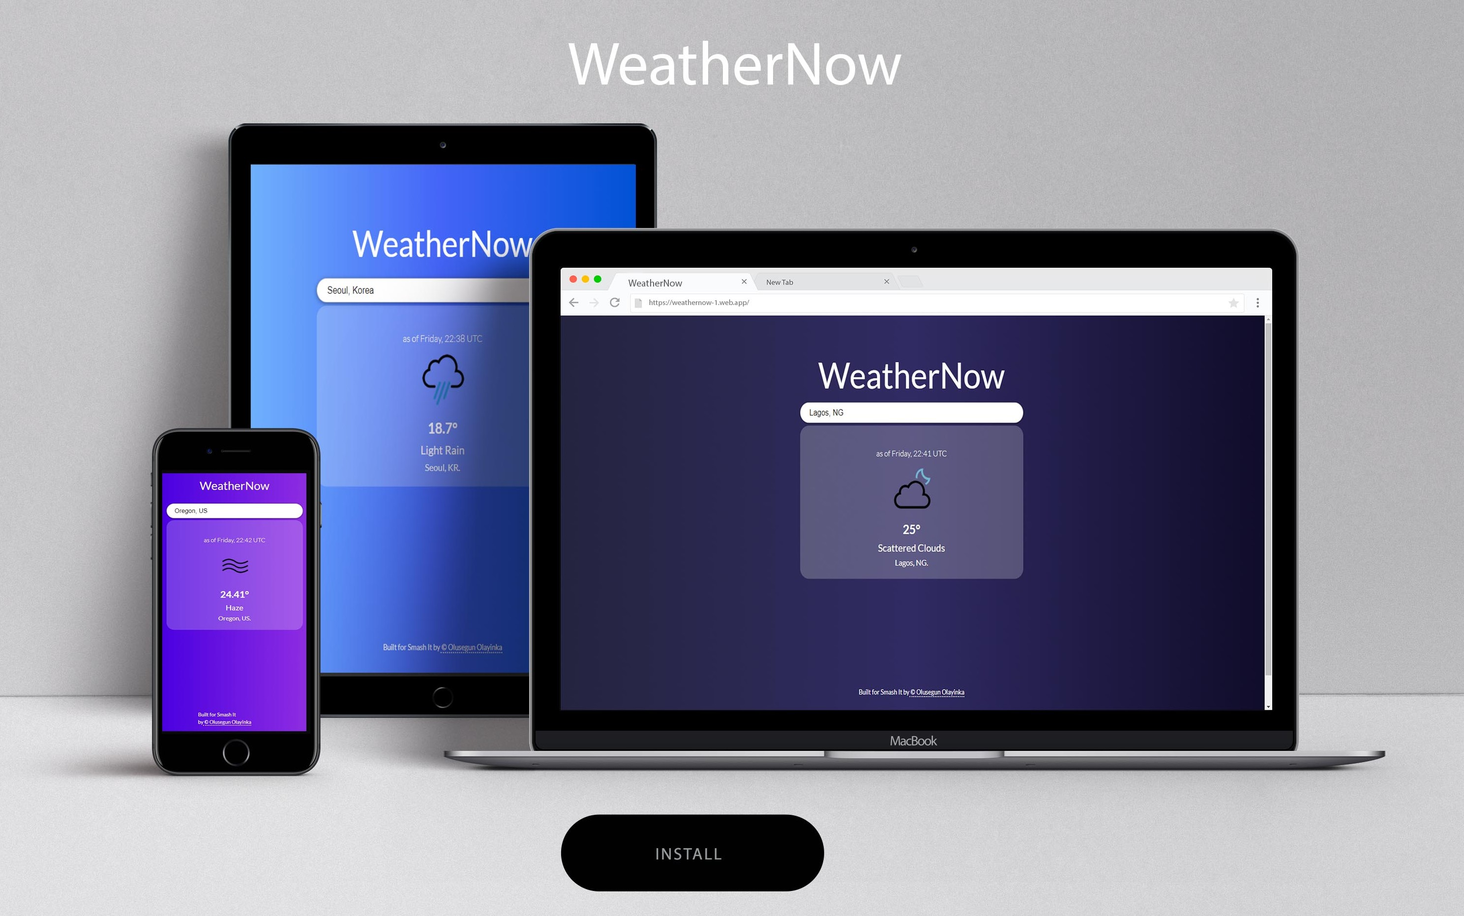
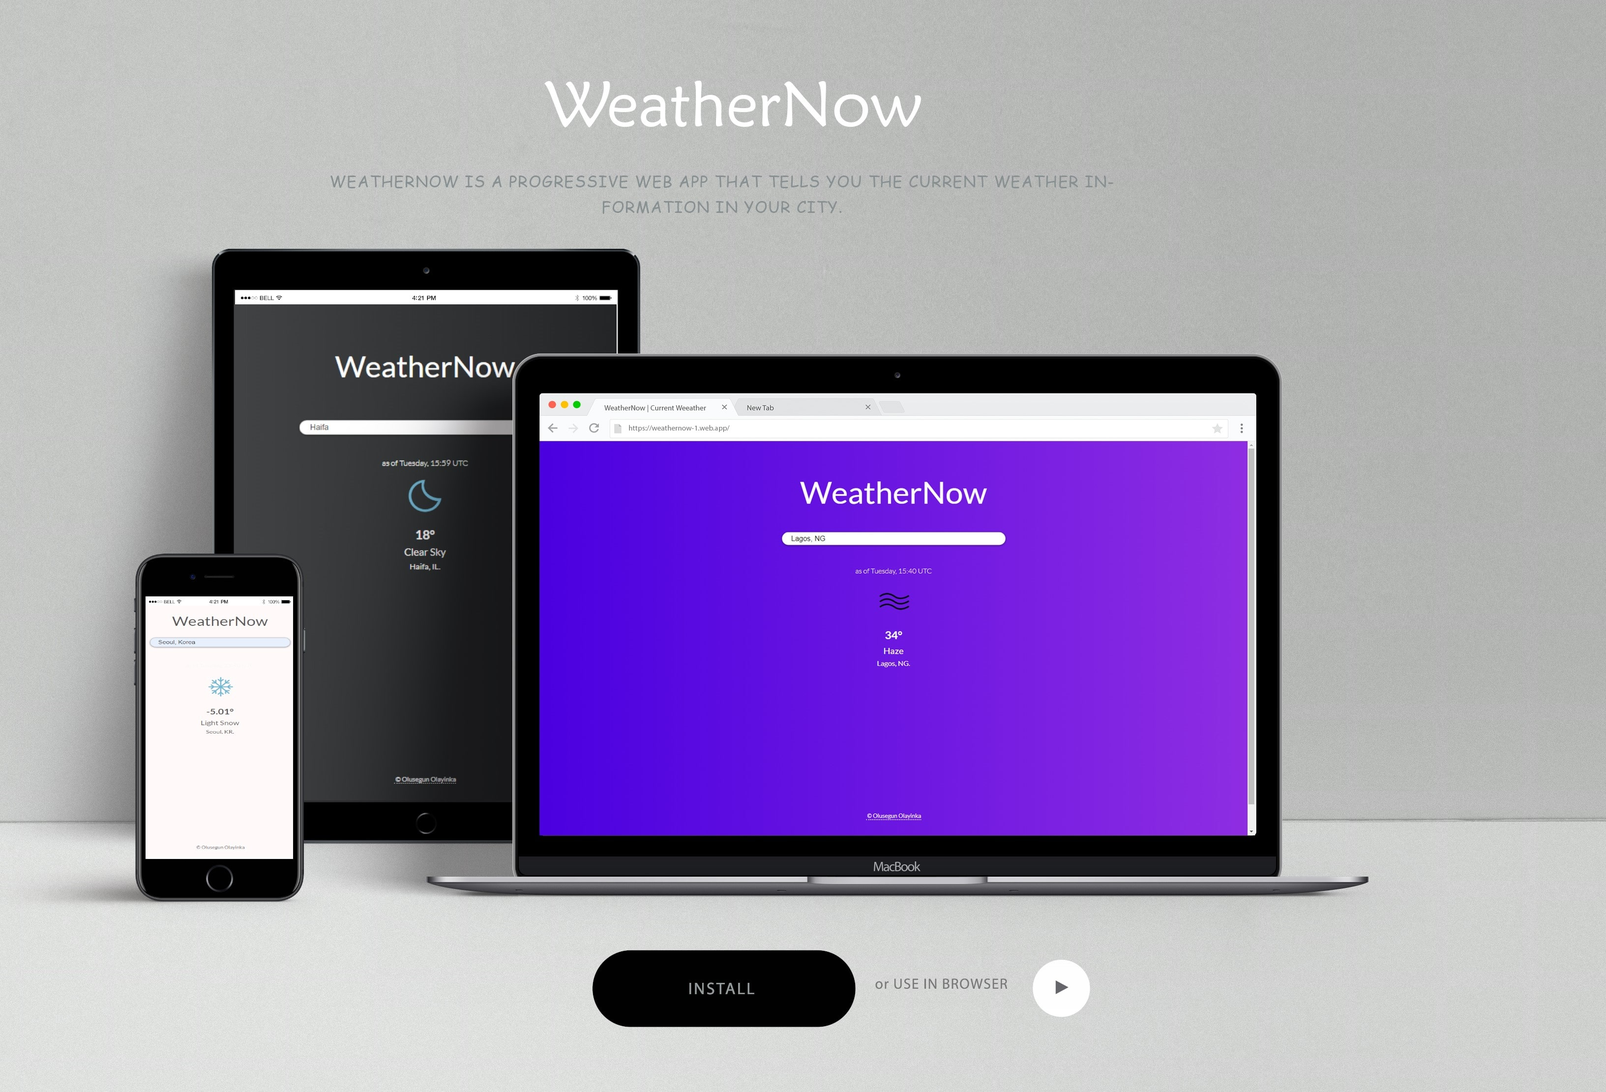
Changed weather information style

diff --git a/dist/js/script.min.js b/dist/js/script.min.js
@@ -1,1 +1,1 @@
-"use strict";function ownKeys(e,r){var t=Object.keys(e);if(Object.getOwnPropertySymbols){var n=Object.getOwnPropertySymbols(e);r&&(n=n.filter(function(r){return Object.getOwnPropertyDescriptor(e,r).enumerable})),t.push.apply(t,n)}return t}function _objectSpread(e){for(var r=1;r<arguments.length;r++){var t=null!=arguments[r]?arguments[r]:{};r%2?ownKeys(Object(t),!0).forEach(function(r){_defineProperty(e,r,t[r])}):Object.getOwnPropertyDescriptors?Object.defineProperties(e,Object.getOwnPropertyDescriptors(t)):ownKeys(Object(t)).forEach(function(r){Object.defineProperty(e,r,Object.getOwnPropertyDescriptor(t,r))})}return e}function _defineProperty(e,r,t){return r in e?Object.defineProperty(e,r,{value:t,enumerable:!0,configurable:!0,writable:!0}):e[r]=t,e}"serviceWorker"in navigator&&window.addEventListener("load",()=>{navigator.serviceWorker.register("/sw_cached_site.min.js").then(e=>{}).catch(e=>{})}),window.addEventListener("load",()=>{try{const e=localStorage.getItem("searchQuery"),r=JSON.parse(e);r&&(document.querySelector("#query").setAttribute("value",r),getWeatherInfo(r))}catch(e){}});const dateConverter=e=>{const r=new Date(1e3*e),t=r.getDay(),n=r.getHours(),o="0"+r.getMinutes();return`${["Sunday","Monday","Tuesday","Wednesday","Thursday","Friday","Saturday"][t]}, ${n}:${o.substr(-2)}`},mockJsonResponse={weather:[{main:"",description:"",icon:""}],main:{temp:""},sys:{country:""},name:"",dt:""},getWeatherInfo=e=>{fetch(`https://api.openweathermap.org/data/2.5/weather?q=${e}&appid={YPOUR_API_KEY}&units=metric`).then(e=>200===e.status?e.json():404===e.status?_objectSpread(_objectSpread({},mockJsonResponse),{},{error:"City not found. Please Check your spelling or try searching for something else.",cod:404}):_objectSpread(_objectSpread({},mockJsonResponse),{},{error:"Oops! An error occured. Please try again.",cod:-1})).then(e=>displayWeatherInfo(e)).catch(e=>{displayWeatherError()})},handleWeatherSearch=e=>{e.preventDefault();const r=e.target.elements.query.value.trim();if(r){document.querySelector(".loading-box").classList.remove("display-none"),getWeatherInfo(r);const e=JSON.stringify(r);localStorage.setItem("searchQuery",e)}else document.querySelector(".weather__error").innerHTML="Please provide a valid city name.",document.querySelector(".weather__error--tip").innerHTML="Tip: Search by - City name, Country e.g. Shuzenji, JP",document.querySelector(".weather__icon").innerHTML="",document.querySelector(".weather__description").innerHTML="",document.querySelector(".weather__temp").innerHTML="",document.querySelector(".weather__time").innerHTML="",document.querySelector(".weather__location").innerHTML="",document.querySelector(".weather").classList.remove("display-none")};document.querySelector("form").addEventListener("submit",handleWeatherSearch);const displayWeatherInfo=e=>{const r=e.weather[0].main.toLowerCase(),{description:t}=e.weather[0],{temp:n}=e.main,{icon:o}=e.weather[0],{name:a}=e,{country:c}=e.sys;let i,s=e.dt;switch(e.dt&&(s=dateConverter(e.dt)),200!==e.cod?(i=e.error,document.querySelector(".weather__error").innerHTML=i,document.querySelector(".weather__error--tip").innerHTML="Tip: Search by - City name, Country e.g. Shuzenji, JP"):(document.querySelector(".weather__error").innerHTML="",document.querySelector(".weather__error--tip").innerHTML=""),document.querySelector(".weather__icon").innerHTML=o&&`<img src=/resources/img/icons/${o}.png alt=weather-icon>`,document.querySelector(".weather__description").innerHTML=t,document.querySelector(".weather__temp").innerHTML=n&&`${n}&deg;`,document.querySelector(".weather__time").innerHTML=s&&`as of ${s} UTC`,document.querySelector(".weather__location").innerHTML=a&&`${a}, ${c}.`,document.querySelector(".loading-box").classList.add("display-none"),document.querySelector(".weather").classList.remove("display-none"),r){case"thunderstorm":document.body.className="thunderstorm";break;case"drizzle":document.body.className="drizzle";break;case"rain":document.body.className="rain";break;case"snow":document.body.className="snow";break;case"clear":o.includes("d")?document.body.className="clear__day":document.body.className="clear__night";break;case"clouds":document.body.className="clouds";break;default:document.body.className="others"}},displayWeatherError=()=>{document.querySelector(".weather__icon").innerHTML="",document.querySelector(".weather__temp").innerHTML="",document.querySelector(".weather__time").innerHTML="",document.querySelector(".weather__error").innerHTML="Unable to get weather information",document.querySelector(".weather__error--tip").innerHTML="Tip: You might be offline. Check your internet connection and try again",document.querySelector(".weather__description").innerHTML="",document.querySelector(".weather__location").innerHTML="",document.querySelector(".loading-box").classList.add("display-none"),document.querySelector(".weather").classList.remove("display-none"),document.body.className="offline"};
+window.addEventListener("load",()=>{"serviceWorker"in navigator&&navigator.serviceWorker.register("/sw_cached_site.min.js").then(e=>{console.log("Service worker registration sucessful")}).catch(e=>{console.log("Service worker registration failed")});try{const e=localStorage.getItem("searchQuery"),r=JSON.parse(e);r&&(document.querySelector("#query").setAttribute("value",r),getWeatherInfo(r))}catch(e){}});const dateConverter=e=>{const r=new Date(1e3*e),t=r.getDay(),o=r.getHours(),n="0"+r.getMinutes();return`${["Sunday","Monday","Tuesday","Wednesday","Thursday","Friday","Saturday"][t]}, ${o}:${n.substr(-2)}`},mockJsonResponse={weather:[{main:"",description:"",icon:""}],main:{temp:""},sys:{country:""},name:"",dt:""},getWeatherInfo=(e,r)=>{let t;if("geolocation"===r){const{lat:r,lon:o}=e;t=`lat=${r}&lon=${o}`}else t=`q=${e}`;fetch(`https://api.openweathermap.org/data/2.5/weather?${t}&appid={YOUR_API_KEY}&units=metric`).then(e=>200===e.status?e.json():404===e.status?{...mockJsonResponse,error:"City not found. Please Check your spelling or try searching for something else.",cod:404}:{...mockJsonResponse,error:"Oops! An error occured. Please try again.",cod:-1}).then(e=>displayWeatherInfo(e)).catch(e=>{displayWeatherError()})},handleWeatherSearch=e=>{e.preventDefault();const r=e.target.elements.query.value.trim();if(r){document.querySelector(".loading-box").classList.remove("display-none"),getWeatherInfo(r);const e=JSON.stringify(r);localStorage.setItem("searchQuery",e)}else document.querySelector(".weather__error").innerHTML="Please provide a valid city name.",document.querySelector(".weather__error--tip").innerHTML="Tip: Search by - City name, Country e.g. Shuzenji, JP",document.querySelector(".weather__icon").innerHTML="",document.querySelector(".weather__description").innerHTML="",document.querySelector(".weather__temp").innerHTML="",document.querySelector(".weather__time").innerHTML="",document.querySelector(".weather__location").innerHTML="",document.querySelector(".weather").classList.remove("display-none")};document.querySelector("form").addEventListener("submit",handleWeatherSearch);const displayWeatherInfo=e=>{const r=e.weather[0].main.toLowerCase(),{description:t}=e.weather[0],{temp:o}=e.main,{icon:n}=e.weather[0],{name:a}=e,{country:c}=e.sys;let s,i=e.dt;switch(e.dt&&(i=dateConverter(e.dt)),200!==e.cod?(s=e.error,document.querySelector(".weather__error").innerHTML=s,document.querySelector(".weather__error--tip").innerHTML="Tip: Search by - City name, Country e.g. Shuzenji, JP"):(document.querySelector(".weather__error").innerHTML="",document.querySelector(".weather__error--tip").innerHTML=""),document.querySelector(".weather__icon").innerHTML=n&&`<img src=/resources/img/icons/${n}.png alt=weather-icon>`,document.querySelector(".weather__description").innerHTML=t,document.querySelector(".weather__temp").innerHTML=o&&`${o}&deg;`,document.querySelector(".weather__time").innerHTML=i&&`as of ${i} UTC`,document.querySelector(".weather__location").innerHTML=a&&`${a}, ${c}.`,document.querySelector(".loading-box").classList.add("display-none"),document.querySelector(".weather").classList.remove("display-none"),r){case"thunderstorm":document.body.className="thunderstorm";break;case"drizzle":document.body.className="drizzle";break;case"rain":document.body.className="rain";break;case"snow":document.body.className="snow";break;case"clear":n.includes("d")?document.body.className="clear__day":document.body.className="clear__night";break;case"clouds":document.body.className="clouds";break;default:document.body.className="others"}},displayWeatherError=()=>{document.querySelector(".weather__icon").innerHTML="",document.querySelector(".weather__temp").innerHTML="",document.querySelector(".weather__time").innerHTML="",document.querySelector(".weather__error").innerHTML="Unable to get weather information",document.querySelector(".weather__error--tip").innerHTML="Tip: You might be offline. Check your internet connection and try again",document.querySelector(".weather__description").innerHTML="",document.querySelector(".weather__location").innerHTML="",document.querySelector(".loading-box").classList.add("display-none"),document.querySelector(".weather").classList.remove("display-none"),document.body.className="offline"};

diff --git a/dist/css/style.min.css b/dist/css/style.min.css
@@ -1,1 +1,1 @@
-html{font-size:62.5%}*,*::after,*::before{margin:0;padding:0;box-sizing:inherit}body{font-family:"Lato",Arial,Helvetica,sans-serif;color:#555;box-sizing:border-box;line-height:1.6;overflow-x:hidden;height:100vh;background-color:#f8f9fa}h1{font-size:7rem;font-weight:400}header{text-align:center;margin-top:6rem}.header__link{text-decoration:none;color:inherit}main{position:absolute;top:25%;left:50%;transform:translate(-50%,-50%)}.search__wrapper input{font-weight:400;font-size:1.6rem;width:50rem;color:#222;padding:1rem 2rem;border:1px solid rgba(0,0,0,.2);border-radius:20rem;outline:none;box-shadow:0 1px 4px rgba(0,0,0,.4);margin-bottom:5px}.search__wrapper input:hover,.search__wrapper input:focus{box-shadow:0 2px 8px rgba(0,0,0,.4)}.result-box{position:relative}.weather{background:rgba(247,247,247,.23);padding:2rem 2rem}.weather,.loading-box{position:absolute;top:0;left:0;width:50rem;text-align:center;border-radius:2rem}.loading-box{background:#fff;padding:5rem 2rem}.weather__description{font-size:2rem;text-transform:capitalize;font-weight:400}.weather__temp{font-weight:700;font-size:2.5rem}.weather__location{font-weight:400;font-size:1.6rem}.weather__icon{padding:.5rem 0}.weather__icon img{max-width:100%;height:auto;width:10rem}.weather__time{font-weight:300;font-size:1.6rem;color:#f7f7f7}.weather__error{font-size:1.8rem;font-weight:400}.weather__error--tip{font-size:1.5rem;font-weight:400;margin-top:2rem}footer{position:absolute;top:95%;left:50%;transform:translate(-50%,-50%)}footer p{font-size:1.3rem;font-weight:400}.footer__link{text-decoration:none;color:inherit;border-bottom:2px dotted #eee}.footer__link:hover{border-bottom:2px solid #eee}.display-none{display:none}@keyframes ldio-cy0uaahr2i{0%{transform:rotate(0)}100%{transform:rotate(360deg)}}.loading-min div{box-sizing:border-box!important}.loading-min>div{position:absolute;width:57.04px;height:57.04px;top:63.480000000000004px;left:63.480000000000004px;border-radius:50%;border:5.5200000000000005px solid #000;border-color:#f39c12 transparent #f39c12 transparent;animation:ldio-cy0uaahr2i 1s linear infinite}.loading-min>div:nth-child(2){border-color:transparent}.loading-min>div:nth-child(2) div{position:absolute;width:100%;height:100%;transform:rotate(45deg)}.loading-min>div:nth-child(2) div:before,.loading-min>div:nth-child(2) div:after{content:"";display:block;position:absolute;width:5.5200000000000005px;height:5.5200000000000005px;top:-5.5200000000000005px;left:20.240000000000002px;background:#f39c12;border-radius:50%;box-shadow:0 51.52px 0 0 #f39c12}.loading-min>div:nth-child(2) div:after{left:-5.5200000000000005px;top:20.240000000000002px;box-shadow:51.52px 0 0 0 #f39c12}.loading-spinner{width:184px;height:184px;display:inline-block;overflow:hidden;background:#fff}.loading-min{width:100%;height:100%;position:relative;transform:translateZ(0) scale(1);backface-visibility:hidden;transform-origin:0 0}.loading-min div{box-sizing:content-box}.loading-box p{font-size:2rem;font-weight:400;color:#555}
+html{font-size:62.5%}*,::after,::before{margin:0;padding:0;box-sizing:inherit}body{font-family:Lato,Arial,Helvetica,sans-serif;color:#555;box-sizing:border-box;line-height:1.6;overflow-x:hidden;height:100vh;background-color:#f8f9fa}h1{font-size:7rem;font-weight:400}header{text-align:center;margin-top:6rem}.header__link{text-decoration:none;color:inherit}main{position:absolute;top:25%;left:50%;transform:translate(-50%,-50%)}.search__wrapper input{font-weight:400;font-size:1.6rem;width:50rem;color:#222;padding:.5rem 2rem;border:1px solid rgba(0,0,0,.2);border-radius:20rem;outline:0;box-shadow:0 1px 4px rgba(0,0,0,.4);margin-bottom:5px}.search__wrapper input:focus,.search__wrapper input:hover{box-shadow:0 2px 8px rgba(0,0,0,.4)}.result-box{position:relative}.weather{padding:2rem 2rem}.loading-box,.weather{position:absolute;top:0;left:0;width:50rem;text-align:center;border-radius:2rem}.loading-box{background-color:#fff;padding:5rem 2rem}.weather__description{font-size:2rem;text-transform:capitalize;font-weight:400}.weather__temp{font-weight:700;font-size:2.5rem}.weather__location{font-weight:400;font-size:1.6rem}.weather__icon{padding:.5rem 0}.weather__icon img{max-width:100%;height:auto;width:10rem}.weather__time{font-weight:300;font-size:1.6rem;color:#f7f7f7}.weather__error{font-size:1.8rem;font-weight:400}.weather__error--tip{font-size:1.5rem;font-weight:400;margin-top:2rem}footer{position:absolute;top:95%;left:50%;transform:translate(-50%,-50%)}footer p{font-size:1.3rem;font-weight:400}.footer__link{text-decoration:none;color:inherit;border-bottom:2px dotted #eee}.footer__link:hover{border-bottom:2px solid #eee}.display-none{display:none}@keyframes ldio-cy0uaahr2i{0%{transform:rotate(0)}100%{transform:rotate(360deg)}}.loading-min div{box-sizing:border-box!important}.loading-min>div{position:absolute;width:57.04px;height:57.04px;top:63.480000000000004px;left:63.480000000000004px;border-radius:50%;border:5.5200000000000005px solid #000;border-color:#f39c12 transparent #f39c12 transparent;animation:ldio-cy0uaahr2i 1s linear infinite}.loading-min>div:nth-child(2){border-color:transparent}.loading-min>div:nth-child(2) div{position:absolute;width:100%;height:100%;transform:rotate(45deg)}.loading-min>div:nth-child(2) div:after,.loading-min>div:nth-child(2) div:before{content:"";display:block;position:absolute;width:5.5200000000000005px;height:5.5200000000000005px;top:-5.5200000000000005px;left:20.240000000000002px;background:#f39c12;border-radius:50%;box-shadow:0 51.52px 0 0 #f39c12}.loading-min>div:nth-child(2) div:after{left:-5.5200000000000005px;top:20.240000000000002px;box-shadow:51.52px 0 0 0 #f39c12}.loading-spinner{width:184px;height:184px;display:inline-block;overflow:hidden;background:#fff}.loading-min{width:100%;height:100%;position:relative;transform:translateZ(0) scale(1);backface-visibility:hidden;transform-origin:0 0}.loading-min div{box-sizing:content-box}.loading-box p{font-size:2rem;font-weight:400;color:#555}body.thunderstorm{background:#1488cc;background:-webkit-linear-gradient(to right,#2b32b2,#1488cc);background:linear-gradient(to right,#2b32b2,#1488cc);color:#fcfdfe}body.drizzle{background:#56ccf2;background:-webkit-linear-gradient(to right,#2f80ed,#56ccf2);background:linear-gradient(to right,#2f80ed,#56ccf2);color:#feffff}body.rain{background:#0052d4;background:-webkit-linear-gradient(to right,#6fb1fc,#4364f7,#0052d4);background:linear-gradient(to right,#6fb1fc,#4364f7,#0052d4);color:#fff}body.snow{background:snow}body.clear__day{background:#ff932b;background-image:linear-gradient(to right top,#ff4e50,#ff713e,#ff932b,#ffb41d,#f9d423);color:#fff}body.clear__night{background:#232526;background:-webkit-linear-gradient(to right,#414345,#232526);background:linear-gradient(to right,#414345,#232526);color:#fff}body.clouds{background:#0f0c29;background:-webkit-linear-gradient(to right,#24243e,#302b63,#0f0c29);background:linear-gradient(to right,#24243e,#302b63,#0f0c29);color:#fff}body.others{background:#8e2de2;background:-webkit-linear-gradient(to right,#4a00e0,#8e2de2);background:linear-gradient(to right,#4a00e0,#8e2de2);color:#fff}body.offline{background:#ad5389;background:-webkit-linear-gradient(to right,#3c1053,#ad5389);background:linear-gradient(to right,#3c1053,#ad5389);color:#faf8fa}

diff --git a/resources/css/style.css b/resources/css/style.css
@@ -16,22 +16,22 @@ body {
   box-sizing: border-box;
   line-height: 1.6;
   overflow-x: hidden;
-  height: 100vh;   
-  background-color: #f8f9fa; 
+  height: 100vh;
+  background-color: #f8f9fa;
 }
 
 h1 {
   font-size: 7rem;
-  font-weight: 400;  
+  font-weight: 400;
 }
 
-header {    
+header {
   text-align: center;
   margin-top: 6rem;
 }
 
 .header__link {
-  text-decoration: none;  
+  text-decoration: none;
   color: inherit;
 }
 
@@ -39,7 +39,7 @@ main {
   position: absolute;
   top: 25%;
   left: 50%;
-  transform: translate(-50%, -50%);  
+  transform: translate(-50%, -50%);
 }
 
 .search__wrapper input {
@@ -47,16 +47,16 @@ main {
   font-size: 1.6rem;
   width: 50rem;
   color: #222;
-  padding: 1rem 2rem;
+  padding: 0.5rem 2rem;
   border: 1px solid rgba(0, 0, 0, 0.2);
   border-radius: 20rem;
   outline: none;
-  box-shadow: 0 1px 4px rgba(0, 0, 0, 0.4); 
-  margin-bottom: 5px;   
+  box-shadow: 0 1px 4px rgba(0, 0, 0, 0.4);
+  margin-bottom: 5px;
 }
 
 .search__wrapper input:hover,
-.search__wrapper input:focus {  
+.search__wrapper input:focus {
   box-shadow: 0 2px 8px rgba(0, 0, 0, 0.4);
 }
 
@@ -64,24 +64,22 @@ main {
   position: relative;
 }
 
-.weather {   
-  background: rgba(247, 247, 247, 0.23);    
+.weather {  
   padding: 2rem 2rem;
 }
 
 .weather,
-.loading-box {  
+.loading-box {
   position: absolute;
   top: 0;
   left: 0;
   width: 50rem;
-  text-align: center;  
+  text-align: center;
   border-radius: 2rem;
 }
 
-.loading-box {      
-  background: #fff;  
-  padding: 5rem 2rem;  
+.loading-box {  
+  padding: 5rem 2rem;
 }
 
 /* Weather Information */
@@ -102,11 +100,11 @@ main {
 }
 
 .weather__icon {
-  padding: .5rem 0;  
+  padding: 0.5rem 0;
 }
 
 .weather__icon img {
-  max-width: 100%;    
+  max-width: 100%;
   height: auto;
   width: 10rem;
 }
@@ -132,15 +130,14 @@ main {
 
 footer {
   position: absolute;
-  top: 95%;  
+  top: 95%;
   left: 50%;
-  transform: translate(-50%, -50%);    
+  transform: translate(-50%, -50%);
 }
-
 
 footer p {
   font-size: 1.3rem;
-  font-weight: 400;  
+  font-weight: 400;
 }
 
 .footer__link {
@@ -149,14 +146,13 @@ footer p {
   border-bottom: 2px dotted #eee;
 }
 
-.footer__link:hover {  
+.footer__link:hover {
   border-bottom: 2px solid #eee;
 }
 /* Utility Classes */
 .display-none {
   display: none;
 }
-
 
 /* LOADING ANIMATION */
 @keyframes ldio-cy0uaahr2i {
@@ -239,4 +235,72 @@ footer p {
   font-size: 2rem;
   font-weight: 400;
   color: #555;
+}
+
+/* THEMES */
+
+body.thunderstorm {
+  background: #1488cc;
+  background: -webkit-linear-gradient(to right, #2b32b2, #1488cc);
+  background: linear-gradient(to right, #2b32b2, #1488cc);
+  color: #fcfdfe;
+}
+
+body.drizzle {
+  background: #56ccf2;
+  background: -webkit-linear-gradient(to right, #2f80ed, #56ccf2);
+  background: linear-gradient(to right, #2f80ed, #56ccf2);
+  color: #feffff;
+}
+
+body.rain {
+  background: #0052d4;
+  background: -webkit-linear-gradient(to right, #6fb1fc, #4364f7, #0052d4);
+  background: linear-gradient(to right, #6fb1fc, #4364f7, #0052d4);
+  color: #fff;
+}
+
+body.snow {
+  background: #fffafa;
+}
+
+body.clear__day {
+  background: #ff932b;
+  background-image: linear-gradient(
+    to right top,
+    #ff4e50,
+    #ff713e,
+    #ff932b,
+    #ffb41d,
+    #f9d423
+  );
+  color: #fff;
+}
+
+body.clear__night {
+  background: #232526;
+  background: -webkit-linear-gradient(to right, #414345, #232526);
+  background: linear-gradient(to right, #414345, #232526);
+  color: #fff;
+}
+
+body.clouds {
+  background: #0f0c29;
+  background: -webkit-linear-gradient(to right, #24243e, #302b63, #0f0c29);
+  background: linear-gradient(to right, #24243e, #302b63, #0f0c29);
+  color: #fff;
+}
+
+body.others {
+  background: #8e2de2;
+  background: -webkit-linear-gradient(to right, #4a00e0, #8e2de2);
+  background: linear-gradient(to right, #4a00e0, #8e2de2);
+  color: #fff;
+}
+
+body.offline {
+  background: #ad5389;
+  background: -webkit-linear-gradient(to right, #3c1053, #ad5389);
+  background: linear-gradient(to right, #3c1053, #ad5389);
+  color: #faf8fa;
 }

diff --git a/resources/js/script.js b/resources/js/script.js
@@ -1,15 +1,15 @@
-// Make sure service worker is supported
-if ('serviceWorker' in navigator) {
-    window.addEventListener('load', () => {
+// Retrieve search query from local storage and make sure service worker is supported
+window.addEventListener('load', () => {
+    if ('serviceWorker' in navigator) {
         navigator.serviceWorker
             .register('/sw_cached_site.min.js')
-            .then(reg => {})
-            .catch(err => {});
-    });
-}
+            .then(reg => {
+                console.log('Service worker registration sucessful');
+            }).catch(err => {
+                console.log('Service worker registration failed');
+            });
+    }
 
-// Retrieve search query from local storage
-window.addEventListener('load', () => {
     try {
         const json = localStorage.getItem('searchQuery');
         const searchQuery = JSON.parse(json);
@@ -23,7 +23,6 @@ window.addEventListener('load', () => {
     }
 });
 
-// Weather Search functionality begins here
 const dateConverter = unix_timestamp => {
     const daysInWeek = ['Sunday', 'Monday', 'Tuesday', 'Wednesday', 'Thursday', 'Friday', 'Saturday'];
     const date = new Date(unix_timestamp * 1000);
@@ -54,15 +53,24 @@ const mockJsonResponse = {
     'dt': ''
 };
 
-const getWeatherInfo = city => {
-    const key = '{YPOUR_API_KEY}';
+// // Weather Search functionality begins here
+const getWeatherInfo = (location, method) => {
+    let search;
+    if (method === 'geolocation') {
+        const { lat, lon } = location;
+        search = `lat=${lat}&lon=${lon}`;
+    } else {
+        search = `q=${location}`;
+    }
+
+    const key = '{YOUR_API_KEY}';
     const units = 'metric';
-    const url = `https://api.openweathermap.org/data/2.5/weather?q=${city}&appid=${key}&units=${units}`;
+    const url = `https://api.openweathermap.org/data/2.5/weather?${search}&appid=${key}&units=${units}`;
     fetch(url)
         .then(response => {
             if (response.status === 200) {
                 return response.json();
-            } else if (response.status === 404) {                
+            } else if (response.status === 404) {
                 return {
                     ...mockJsonResponse,
                     'error': 'City not found. Please Check your spelling or try searching for something else.',
@@ -77,7 +85,7 @@ const getWeatherInfo = city => {
             }
         })
         .then(data => displayWeatherInfo(data))
-        .catch(err => {            
+        .catch(err => {
             displayWeatherError();
         });
 };
@@ -99,8 +107,8 @@ const handleWeatherSearch = e => {
         document.querySelector('.weather__description').innerHTML = '';
         document.querySelector('.weather__temp').innerHTML = '';
         document.querySelector('.weather__time').innerHTML = '';
-        document.querySelector('.weather__location').innerHTML = '';       
-        document.querySelector('.weather').classList.remove('display-none');         
+        document.querySelector('.weather__location').innerHTML = '';
+        document.querySelector('.weather').classList.remove('display-none');
     }
 };
 

diff --git a/sw_cached_site.js b/sw_cached_site.js
@@ -41,7 +41,7 @@ self.addEventListener('fetch', e => {
                     .open(cacheName)
                     .then(cache => {
                         // Add response to cache
-                        cache.put(e.request, resClone);                        
+                        cache.put(e.request, resClone);
                     });
                 return res;
             }).catch(err => caches.match(e.request).then(res => res))

diff --git a/index.html b/index.html
@@ -64,7 +64,7 @@
         </div>
     </main>
     <footer>
-        <p>Built for Smash It by<a href="https://github.com/olayis" class="footer__link" target="_blank"
+        <p><a href="https://github.com/olayis" class="footer__link" target="_blank"
                 rel="noreferrer">&nbsp;&copy;&nbsp;Olusegun&nbsp;Olayinka</a></p>
     </footer>
     <script src="/dist/js/script.min.js"></script>
